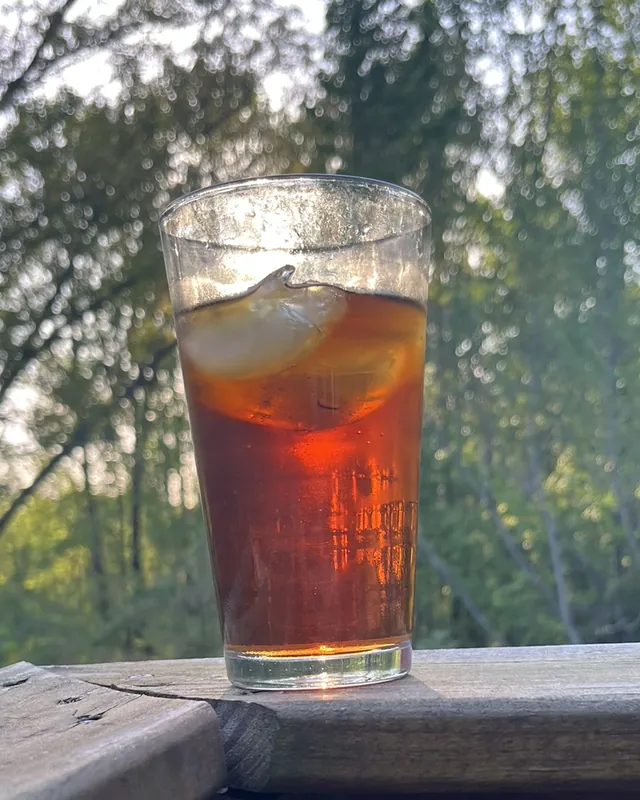
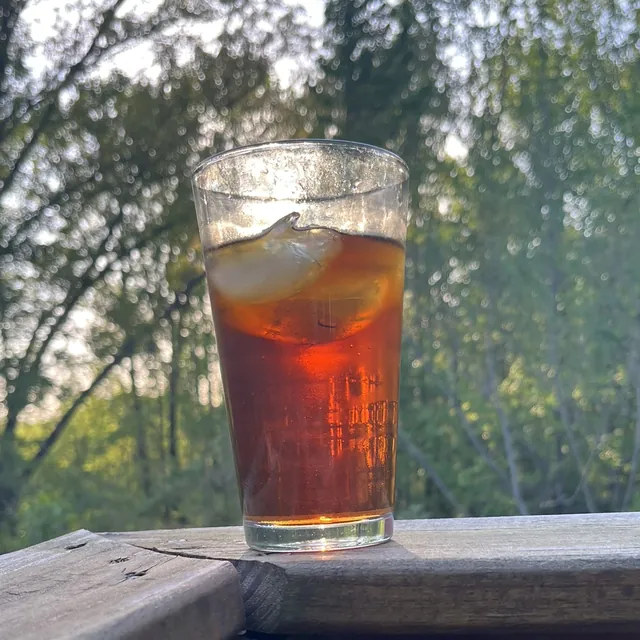
Drinks (ledger 571): exact Coca-Cola Zero Sugar can photo, caption line on every drink tile, square crops
- New tile Coca-Cola Zero Sugar: Commons 'Chicken quarter meal, Two Peck Crispy Chicken Cannington, 2026 (01).jpg'
  (Bahnfrend, CC BY-SA 4.0), cropped to the can; credit 'Photo: Bahnfrend, CC BY-SA 4.0, cropped' with the licence link.
  Security P2 ruling 7 Nov (file 20261107-0038): label is PD-textlogo only.
- Every drink tile gets one caption line under the photo (Design): 'Photo: <catalogue name> <size> can' for an exact
  product, 'Photo shows the drink type' otherwise. Note under the grid reworded to match.
- Coca-Cola Classic stays under the Soft drinks type photo (no exact free photo: all found show 355/350 ml or another
  variant). Missing exact photos are listed in docs/credits.md.
- All 8 drink photos re-cropped square (640x640 + 320x320, no EXIF), centred on the glass or can.
- data/drink-photos.json: photo kind, credit and a provenance row per file (source, author, licence + URL, packaging
  reason, date checked, sha256 of both files); the build checks the kind, the exact product and the credit.

diff --git a/src/assets/css/site.css b/src/assets/css/site.css
@@ -1464,7 +1464,12 @@ main > .section ~ .section, main > .section ~ .reviews, .site-footer { content-v
 .gal-grid { list-style: none; margin: 0; padding: 0; display: grid; grid-template-columns: repeat(2, minmax(0, 1fr)); gap: 22px 14px; }
 .gal-card { display: flex; flex-direction: column; gap: 3px; color: var(--ink); text-decoration: none; }
 .gal-card img { display: block; width: 100%; height: auto; aspect-ratio: 1; object-fit: cover; border-radius: var(--radius); background: var(--soft); margin-bottom: 9px; }
-.gal-card--drink img { aspect-ratio: 4 / 5; }
+/* Drinks (ledger 571, Design): square photos like the noodles, then one caption line, 6 px below the photo, the same on every
+   tile ("Photo: <product> <size> can" or "Photo shows the drink type", plus any licence credit). The licence link's box is
+   24 px tall (WCAG 2.5.8) without changing the line height. */
+.gal-card--drink img { margin-bottom: 3px; }
+.gal-photo { font-size: .75rem; font-weight: 500; line-height: 1.4; color: var(--ink-2); margin-bottom: 4px; }
+.gal-photo a { display: inline-block; padding: 4px 0; margin: -4px 0; color: inherit; text-decoration: underline; text-underline-offset: 2px; }
 .gal-brand { font-size: .8rem; font-weight: 500; color: var(--muted); }
 .gal-name, .gal-type { font-size: .98rem; font-weight: 600; line-height: 1.25; letter-spacing: -.01em; transition: color .25s; }
 a.gal-card:hover .gal-name { color: var(--red); }

diff --git a/scripts/make_drink_photos.py b/scripts/make_drink_photos.py
@@ -1,9 +1,10 @@
-"""Drink-type photos for the home gallery, from the public-domain / CC0 photos listed in docs/credits.md
-("Drink photos from free libraries"). Each is cropped to 4:5 and saved as src/assets/img/drinks/<type>.webp (640 x 800)
-plus <type>-t320.webp (320 x 400) for the srcset.
+"""Drink photos for the home gallery, from the free-library photos listed in docs/credits.md ("Drink photos from free
+libraries"). Each is cropped square (1:1, centred on the glass or can) and saved as src/assets/img/drinks/<name>.webp
+(640 x 640) plus <name>-t320.webp (320 x 320) for the srcset. Pillow writes no EXIF or GPS into the WebP files.
 
 The sources aren't kept in the repo. To rebuild, save each photo's Commons rendering 1920 px wide (what the shipped files
-were made from; smaller originals as they are) into a folder, named <type>.jpg as in CROPS below, then:
+were made from; smaller originals as they are, and `coke-zero-sugar` from its full 4080 x 3060 original) into a folder,
+named <name>.jpg as in CROPS below, then:
   uv run -q --with pillow python scripts/make_drink_photos.py <folder>
 Crops are fractions of the photo (left, top, right, bottom), so they also fit the full-size original.
 """
@@ -15,13 +16,15 @@ from PIL import Image, ImageOps
 ROOT = Path(__file__).resolve().parent.parent
 OUT = ROOT / "src" / "assets" / "img" / "drinks"
 CROPS = {
-    "iced-matcha": (0.1333, 0.2639, 0.9667, 0.9583),
-    "iced-coffee": (0.2135, 0.0, 0.7469, 1.0),
-    "soft-drink": (0.1901, 0.0, 0.8099, 1.0),
-    "iced-tea": (0.15, 0.1, 0.75, 0.6625),
-    "chrysanthemum-tea": (0.3, 0.25, 0.7, 0.75),
-    "water": (0.0, 0.1, 1.0, 0.954),
-    "ice": (0.1146, 0.1563, 1.0, 0.8941),
+    "iced-matcha": (0.0, 0.2778, 1.0, 0.9444),
+    "iced-coffee": (0.1469, 0.0, 0.8135, 1.0),
+    "soft-drink": (0.1128, 0.0, 0.8872, 1.0),
+    "iced-tea": (0.075, 0.1, 0.825, 0.6625),
+    "chrysanthemum-tea": (0.25, 0.25, 0.75, 0.75),
+    "water": (0.0, 0.1853, 1.0, 0.8687),
+    "ice": (0.0, 0.1919, 1.0, 0.8585),
+    # The can only (x 60-1660, y 600-2200 of 4080 x 3060): leaves out the food box and its handwritten price note.
+    "coke-zero-sugar": (0.0147, 0.1961, 0.4069, 0.719),
 }
 QUALITY = {"chrysanthemum-tea": 60}  # a frame full of tiny dried flowers: 134 KB at quality 80, 96 KB at 60
 
@@ -34,10 +37,10 @@ def main(src_dir: Path) -> None:
             im = ImageOps.exif_transpose(im).convert("RGB")
             l, t, r, b = crop
             im = im.crop((round(l * im.width), round(t * im.height), round(r * im.width), round(b * im.height)))
-            im = ImageOps.fit(im, (640, 800), Image.LANCZOS)  # trims the last few px to exactly 4:5
+            im = ImageOps.fit(im, (640, 640), Image.LANCZOS)  # trims the last few px to exactly 1:1
             q = QUALITY.get(name, 80)
             im.save(OUT / f"{name}.webp", "WEBP", quality=q, method=6)
-            im.resize((320, 400), Image.LANCZOS).save(OUT / f"{name}-t320.webp", "WEBP", quality=q, method=6)
+            im.resize((320, 320), Image.LANCZOS).save(OUT / f"{name}-t320.webp", "WEBP", quality=q, method=6)
         print(f"{name}: {(OUT / f'{name}.webp').stat().st_size // 1024} KB + {(OUT / f'{name}-t320.webp').stat().st_size // 1024} KB")
 
 

diff --git a/docs/credits.md b/docs/credits.md
@@ -31,7 +31,7 @@ All files are in `src/assets/img/toppings/`, cropped to 480 × 480. None of thes
 
 Only CC0, public-domain or MEON's own photos are used (Preston, 30 Oct 2026: no photos that need a visible credit, so no CC BY or BY-SA; and no "free to use" sites with their own terms). `egg.webp` was the old Wix site's Pexels photo (Pexels licence); on 30 Oct 2026 it was replaced with the CC0 photo above, since MEON's topping shoot has no egg. The other eight Wix-era topping photos had no licence on record, so they were replaced with Commons photos; on 4 Nov 2026 the owner's own photos replaced the Commons beef, crab sticks and tofu. The 4 rows added on 4 Nov 2026 (spring onion, shiitake, seaweed, tempura prawn) fill items the owner's photos don't cover; each licence was read on the file's own Commons page that day. Captures of the Flickr and Commons pages as checked are kept in MEON's private records.
 
-To add a new pairing or side photo, prefer the owner's own photo on a light background (not the black MEON lid), with no packet, logo or brand in frame. If you use a library photo, add a row here with the link, author and licence. The Pairings and sides page lists drinks as text; the home gallery's drink photos are below, under "Drink photos from free libraries". No photos of cans, bottles or pouches.
+To add a new pairing or side photo, prefer the owner's own photo on a light background (not the black MEON lid), with no packet, logo or brand in frame. If you use a library photo, add a row here with the link, author and licence. The Pairings and sides page lists drinks as text; the home gallery's drink photos are below, under "Drink photos from free libraries", with their own rules. No pairing or side photo shows a can, bottle or pouch.
 
 ## Noodle photos from free libraries
 
@@ -47,21 +47,25 @@ Flickr owners can change a licence later, so each row records the date it was ch
 
 ## Drink photos from free libraries
 
-The home gallery's Drinks tab (Preston, 6 Nov 2026: "give drinks free images, and like Aiko matcha too"). Each photo shows a **type** of drink in a plain glass, never the product MEON sells: the tile's caption names the type ("Iced matcha") and MEON's own drinks from `data/catalogue.json` are listed as text under it ("At MEON: Aiko Matcha (can)"), with a line under the grid saying the photos show the type of drink, not the exact product. No can, bottle, packet, logo or brand is in any frame (Preston via BOSS, 4 Nov 2026: branded cans and bottles are other companies' packaging). Only CC0 or public-domain photos are used, the same rule as the photos above (Preston, 30 Oct 2026); none needs a credit, so the page shows none, and each is recorded here so its source can be proven.
+The home gallery's Drinks tab (Preston, 6 Nov 2026: "give drinks free images, and like Aiko matcha too"; ledger 571, 7 Nov 2026: free photos of Coke and the other drinks MEON sells, which replaces the 4 Nov "no other companies' packaging" order **for drinks only**). Each tile has one photo, a caption line under it, the group name, and MEON's own drinks from `data/catalogue.json` as text ("At MEON: Aiko Matcha (can)"). A photo is one of two kinds, and its caption line says which:
 
-Files are in `src/assets/img/drinks/`, cropped to 4:5 by `scripts/make_drink_photos.py` (640 × 800 plus a 320 × 400 `-t320` copy) from each file's 1920 px Commons rendering (`water` from its 1573 px original). Each licence was read on the file's own Commons page on 6 Nov 2026 (19:41 PST); a copy of every page as checked, with the files used and their SHA-256, is kept in MEON's private records (`boss-handoff/agents/meon-2/gallery/`).
+- **Exact product** ("Photo: Coca-Cola Zero Sugar 375 ml can"): the catalogue product itself, the same variant and pack. Taken only when the label is PD-textlogo (no illustrated packaging art), with one product as the subject and no people (Security's pre-rules, `boss-handoff/requests/security/20261107-0038-meon-571-drink-photo-prerules.md`). CC BY / BY-SA photos are allowed for these files only; their credit is printed in the same caption line, with a link to the licence.
+- **Drink type** ("Photo shows the drink type"): a plain glass of that kind of drink, CC0 or public domain, no can, bottle, logo or brand in frame. A line under the grid says these tiles show the kind of drink, not the exact product.
 
-| File | Caption | Source | Author | Licence |
-|---|---|---|---|---|
-| `iced-matcha.webp` | Iced matcha | [Wikimedia Commons: Iced green tea latte.jpg](https://commons.wikimedia.org/wiki/File:Iced_green_tea_latte.jpg), from [Pixabay 1718738](https://pixabay.com/photo-1718738/) | Saya1611 | CC0 (posted to Pixabay in 2015, when Pixabay photos were CC0; Commons licence review confirmed 19 Feb 2019) |
-| `iced-coffee.webp` | Iced coffee | [Wikimedia Commons: Iced cold brew coffee.jpg](https://commons.wikimedia.org/wiki/File:Iced_cold_brew_coffee.jpg), from [Flickr 35311547485](https://www.flickr.com/photos/roland/35311547485/) | Roland Tanglao | CC0 (Commons Flickr review passed 26 Jun 2018) |
-| `soft-drink.webp` | Soft drinks | [Wikimedia Commons: Glass cola.jpg](https://commons.wikimedia.org/wiki/File:Glass_cola.jpg) | pic_p_ter, own work | Public domain (released by the author) |
-| `iced-tea.webp` | Iced tea | [Wikimedia Commons: Glass of Sweet Tea Glistening in the Light of God.jpg](https://commons.wikimedia.org/wiki/File:Glass_of_Sweet_Tea_Glistening_in_the_Light_of_God.jpg) | Allthebees, own work | CC0 |
-| `chrysanthemum-tea.webp` | Chrysanthemum tea | [Wikimedia Commons: Chrysanthemum tea (20240131).jpg](https://commons.wikimedia.org/wiki/File:Chrysanthemum_tea_(20240131).jpg), cropped to the middle of the frame | Fumikas Sagisavas, own work | CC0 |
-| `water.webp` | Water | [Wikimedia Commons: Glass-of-water.jpg](https://commons.wikimedia.org/wiki/File:Glass-of-water.jpg) | Derek Jensen (Tysto), own work | Public domain (released by the author) |
-| `ice.webp` | Ice | [Wikimedia Commons: Ice cubes on water.jpg](https://commons.wikimedia.org/wiki/File:Ice_cubes_on_water.jpg), from [Pixabay 663101](https://pixabay.com/en/water-glass-ice-cold-liquid-663101/) | Cleiton Andrade, Alfenas, Brazil | CC0 (posted to Pixabay in 2014, when Pixabay photos were CC0; Commons licence review confirmed 16 Dec 2018) |
+Files are in `src/assets/img/drinks/`, cropped square by `scripts/make_drink_photos.py` (640 × 640 plus a 320 × 320 `-t320` copy, no EXIF or GPS) from each file's 1920 px Commons rendering (`water` from its 1573 px original, `coke-zero-sugar` from its 4080 × 3060 original). The type photos' licences were read on their own Commons pages on 6 Nov 2026 (19:41 PST), the Coke photo's on 7 Nov 2026 (00:52 PST); copies of the pages as checked are kept in MEON's private records (`boss-handoff/agents/meon-2/gallery/` and `agents/meon-2/drinks-571/`). `data/drink-photos.json` holds the same rows with the packaging reason and the SHA-256 of every shipped file.
 
-The chrysanthemum tile shows the dried flowers that the tea is brewed from: a search of Commons on 6 Nov 2026 found no CC0 or public-domain photo of a glass of it. Milkis (a milk soda) sits under "Soft drinks": the only free milk-soda photo found had another brand's packet beside the glass.
+| File | Kind | Caption | Source | Author | Licence | Edits |
+|---|---|---|---|---|---|---|
+| `iced-matcha.webp` | Type | Iced matcha | [Wikimedia Commons: Iced green tea latte.jpg](https://commons.wikimedia.org/wiki/File:Iced_green_tea_latte.jpg), from [Pixabay 1718738](https://pixabay.com/photo-1718738/) | Saya1611 | CC0 (posted to Pixabay in 2015, when Pixabay photos were CC0; Commons licence review confirmed 19 Feb 2019) | Cropped square |
+| `iced-coffee.webp` | Type | Iced coffee | [Wikimedia Commons: Iced cold brew coffee.jpg](https://commons.wikimedia.org/wiki/File:Iced_cold_brew_coffee.jpg), from [Flickr 35311547485](https://www.flickr.com/photos/roland/35311547485/) | Roland Tanglao | CC0 (Commons Flickr review passed 26 Jun 2018) | Cropped square |
+| `soft-drink.webp` | Type | Soft drinks | [Wikimedia Commons: Glass cola.jpg](https://commons.wikimedia.org/wiki/File:Glass_cola.jpg) | pic_p_ter, own work | Public domain (released by the author) | Cropped square |
+| `coke-zero-sugar.webp` | **Exact**: Coca-Cola Zero Sugar | Coca-Cola Zero Sugar | [Wikimedia Commons: Chicken quarter meal, Two Peck Crispy Chicken Cannington, 2026 (01).jpg](https://commons.wikimedia.org/wiki/File:Chicken_quarter_meal,_Two_Peck_Crispy_Chicken_Cannington,_2026_(01).jpg) (Perth, 31 Mar 2026) | Bahnfrend, own work | [CC BY-SA 4.0](https://creativecommons.org/licenses/by-sa/4.0/); credit on the tile: "Photo: Bahnfrend, CC BY-SA 4.0, cropped". The crop is CC BY-SA 4.0 too. Packaging: the label is only the Coca-Cola script and the words ZERO SUGAR / Real Coke Taste on flat red, both PD-textlogo on Commons (File:Coca-Cola logo.svg, File:Coca-Cola Zero Sugar Logo.png); no deletion or packaging tag on the page (Security ruling, 7 Nov 2026) | Cropped to the can (leaves out the meal and its handwritten price note), resized. Source file = Commons sha1 `38731fa4…0bed` |
+| `iced-tea.webp` | Type | Iced tea | [Wikimedia Commons: Glass of Sweet Tea Glistening in the Light of God.jpg](https://commons.wikimedia.org/wiki/File:Glass_of_Sweet_Tea_Glistening_in_the_Light_of_God.jpg) | Allthebees, own work | CC0 | Cropped square |
+| `chrysanthemum-tea.webp` | Type | Chrysanthemum tea | [Wikimedia Commons: Chrysanthemum tea (20240131).jpg](https://commons.wikimedia.org/wiki/File:Chrysanthemum_tea_(20240131).jpg) | Fumikas Sagisavas, own work | CC0 | Cropped to the middle of the frame |
+| `water.webp` | Type | Water | [Wikimedia Commons: Glass-of-water.jpg](https://commons.wikimedia.org/wiki/File:Glass-of-water.jpg) | Derek Jensen (Tysto), own work | Public domain (released by the author) | Cropped square |
+| `ice.webp` | Type | Ice | [Wikimedia Commons: Ice cubes on water.jpg](https://commons.wikimedia.org/wiki/File:Ice_cubes_on_water.jpg), from [Pixabay 663101](https://pixabay.com/en/water-glass-ice-cold-liquid-663101/) | Cleiton Andrade, Alfenas, Brazil | CC0 (posted to Pixabay in 2014, when Pixabay photos were CC0; Commons licence review confirmed 16 Dec 2018) | Cropped square |
+
+**No exact photo yet** (searched 7 Nov 2026 on Commons by name and category, and through Openverse to Flickr; details in `boss-handoff/agents/meon-2/drinks-571/candidates/README.md`): Coca-Cola Classic (every free can photo found shows 355 or 350 ml, another variant or a foreign label), 100 Plus, Milkis Peach, Aiko Matcha, the five Caffe Bene cans, both waters. Exact photos of Sosro Teh Botol 250 ml and Yeo's Chrysanthemum Tea 300 ml exist, but their labels carry illustrated art, so they're out under the packaging rule. These drinks keep their type photo. The chrysanthemum tile shows the dried flowers the tea is brewed from: no CC0 or public-domain photo of a glass of it was found on 6 Nov 2026. Milkis (a milk soda) sits under "Soft drinks": the only free milk-soda photo found had another brand's packet beside the glass.
 
 ## Code libraries that ship artwork
 
